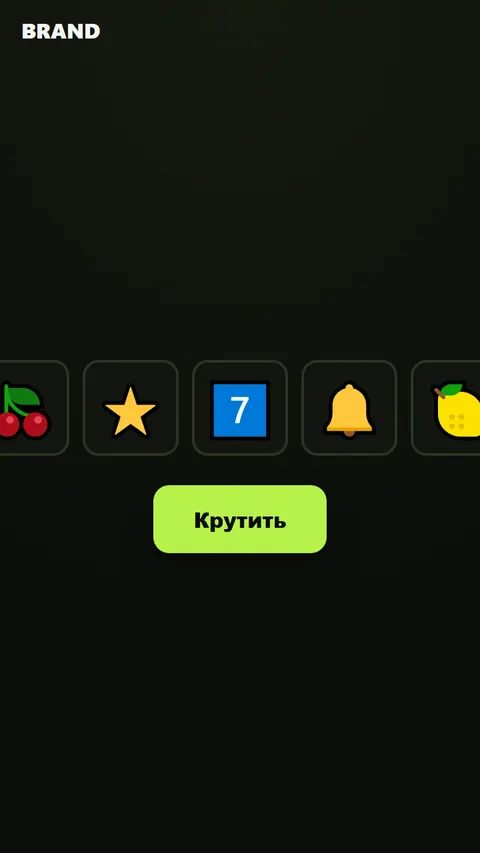
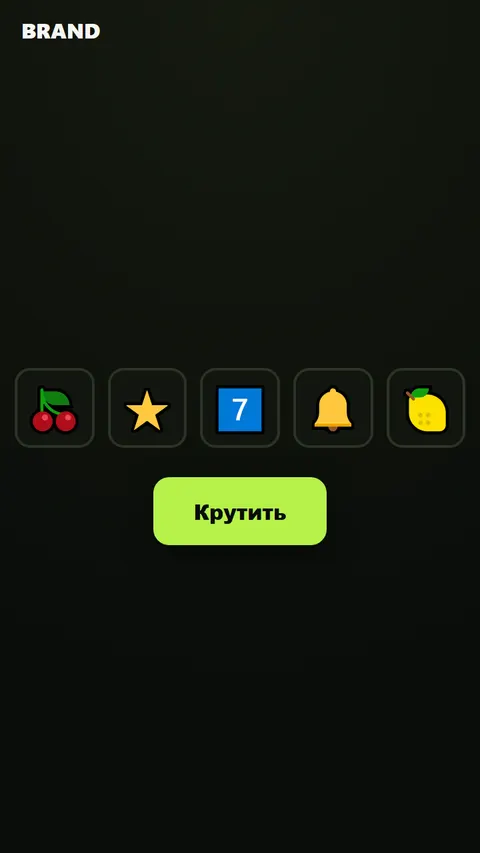
Конструктор плейблов: слот на 5 барабанов влезает в вертикальный экран
Барабаны были фиксированные — 72 px и зазор 10 px, — и пять штук занимали
400 px на экране 360: крайние обрезались. Теперь ширина барабана — не
больше 72 px, но так, чтобы все n влезали в 94% ширины экрана (число
барабанов — CSS-переменная --n); символ и картинка в нём масштабируются
вместе с барабаном. На 3–4 барабанах и в 16:9/1:1 всё как было.
Превью слота в каталоге пересняты.

Changed region(s): [[0.0, 0.4267, 1.0, 0.6706]]

diff --git a/src/lib/playableGen.ts b/src/lib/playableGen.ts
@@ -189,7 +189,7 @@ const RUNTIME =
   "  if(DATA.bg){ document.body.style.backgroundImage='linear-gradient(rgba(0,0,0,.25),rgba(0,0,0,.55)),url(\"'+DATA.bg+'\")'; document.body.style.backgroundSize='cover'; document.body.style.backgroundPosition='center'; }\n" +
   "  function setSym(node, s){ if(/^data:|^https?:/.test(s)){ node.innerHTML=''; var i2=el('img'); i2.src=s; node.appendChild(i2); } else { node.textContent=s; } }\n" +
   "  function slot(){\n" +
-  "    var wrap=el('div','slot'); var reels=el('div','reels'); wrap.appendChild(reels);\n" +
+  "    var wrap=el('div','slot'); var reels=el('div','reels'); wrap.appendChild(reels); reels.style.setProperty('--n', String(DATA.reels||3));\n" +
   "    var n=DATA.reels||3; var syms=(DATA.symbols&&DATA.symbols.length)?DATA.symbols:['\\uD83C\\uDF52','\\u2B50','7\\uFE0F\\u20E3','\\uD83D\\uDD14','\\uD83C\\uDF4B','\\uD83D\\uDC8E'];\n" +
   "    var cells=[]; for(var i=0;i<n;i++){ var r=el('div','reel'); var s=el('div','sym'); setSym(s, syms[i%syms.length]); r.appendChild(s); reels.appendChild(r); cells.push(s); }\n" +
   "    var btn=el('button','play'); btn.textContent=I.spin; wrap.appendChild(btn); stage.appendChild(wrap);\n" +
@@ -278,7 +278,7 @@ function css(accent: string): string {
     ".brandbar img{height:26px;max-width:130px;object-fit:contain;background:#fff;border-radius:6px;padding:3px 6px}" +
     ".stage{flex:1;width:100%;display:flex;align-items:center;justify-content:center;padding:14px}" +
     ".play{margin-top:22px;background:var(--accent);color:#0a0d0a;font-weight:800;border:0;border-radius:12px;padding:14px 30px;font-size:16px;cursor:pointer;box-shadow:0 8px 24px rgba(0,0,0,.4)}.play:disabled{opacity:.55;cursor:default}" +
-    ".slot{display:flex;flex-direction:column;align-items:center}.reels{display:flex;gap:10px}.reel{width:72px;height:72px;background:#12160f;border:2px solid #2c3424;border-radius:12px;display:flex;align-items:center;justify-content:center;overflow:hidden}.sym{font-size:40px;line-height:1}.sym img{width:46px;height:46px;object-fit:contain}.tile img{width:34px;height:34px;object-fit:contain;pointer-events:none}.sym.pop{animation:pop .4s}@keyframes pop{0%{transform:scale(.6)}60%{transform:scale(1.2)}100%{transform:scale(1)}}" +
+    ".slot{display:flex;flex-direction:column;align-items:center}.reels{display:flex;gap:10px;--rw:min(72px,calc((94vw - (var(--n,3) - 1) * 10px) / var(--n,3)))}.reel{width:var(--rw);height:var(--rw);background:#12160f;border:2px solid #2c3424;border-radius:12px;display:flex;align-items:center;justify-content:center;overflow:hidden}.sym{font-size:calc(var(--rw) * .55);line-height:1}.sym img{width:calc(var(--rw) * .64);height:calc(var(--rw) * .64);object-fit:contain}.tile img{width:34px;height:34px;object-fit:contain;pointer-events:none}.sym.pop{animation:pop .4s}@keyframes pop{0%{transform:scale(.6)}60%{transform:scale(1.2)}100%{transform:scale(1)}}" +
     ".wheel-wrap{position:relative;display:flex;flex-direction:column;align-items:center}.pointer{position:absolute;top:-4px;left:50%;transform:translateX(-50%);border-left:11px solid transparent;border-right:11px solid transparent;border-top:20px solid var(--accent);z-index:3}.wheel{width:228px;height:228px;border-radius:50%;border:6px solid #2c3424;position:relative;transform:rotate(0)}.wlabel{position:absolute;inset:0;display:flex;justify-content:center;padding-top:14px}.wlabel span{color:#fff;font-size:11px;font-weight:700}" +
     ".scratch{position:relative;width:260px;height:170px;border-radius:16px;overflow:hidden;border:2px solid #2c3424}.prizeText{position:absolute;inset:0;display:flex;align-items:center;justify-content:center;font-size:22px;font-weight:800;color:var(--accent);text-align:center;padding:12px}.scratch canvas{position:absolute;inset:0;touch-action:none;cursor:grab}.scratch .hint{position:absolute;bottom:8px;width:100%;text-align:center;font-size:12px;color:#0a0d0a;font-weight:600;pointer-events:none}" +
     ".quiz{width:100%;max-width:320px;padding:12px}.quiz .q{font-size:18px;margin-bottom:16px;text-align:center}.opts{display:flex;flex-direction:column;gap:10px}.opt{background:#12160f;border:1px solid #2c3424;color:#f5f7f2;border-radius:12px;padding:14px;font-size:15px;cursor:pointer;text-align:left}.opt.right{border-color:var(--accent);background:rgba(212,255,61,.14);color:var(--accent)}.opt.wrong{border-color:#7f1d1d;opacity:.6}" +
